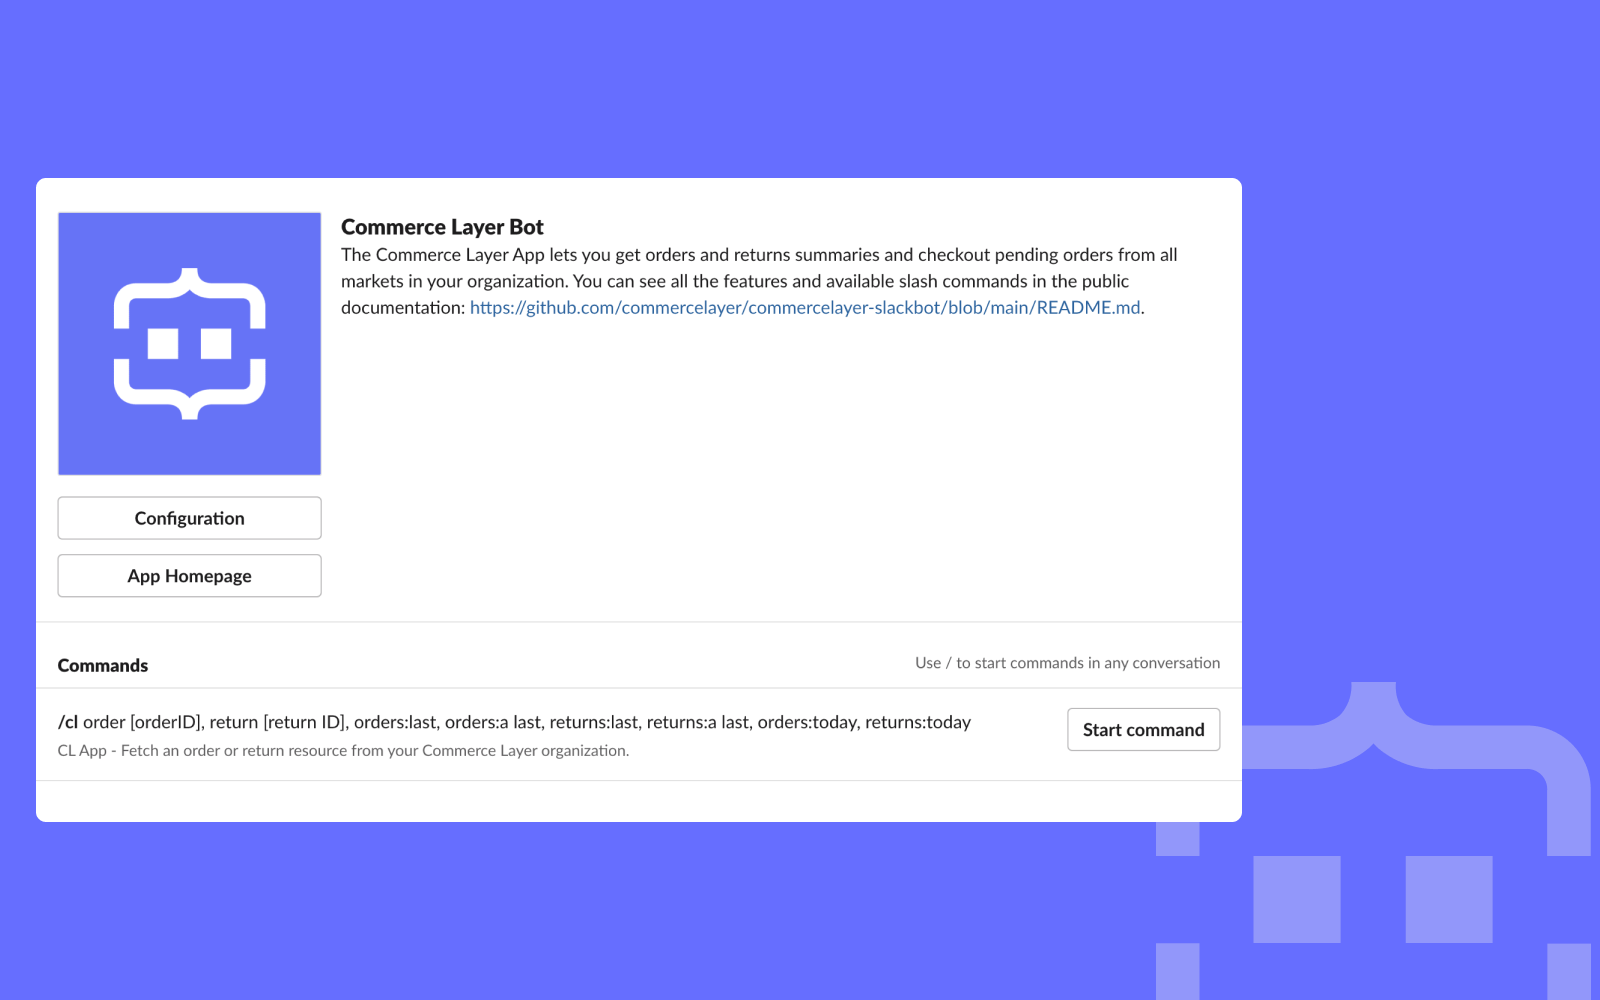
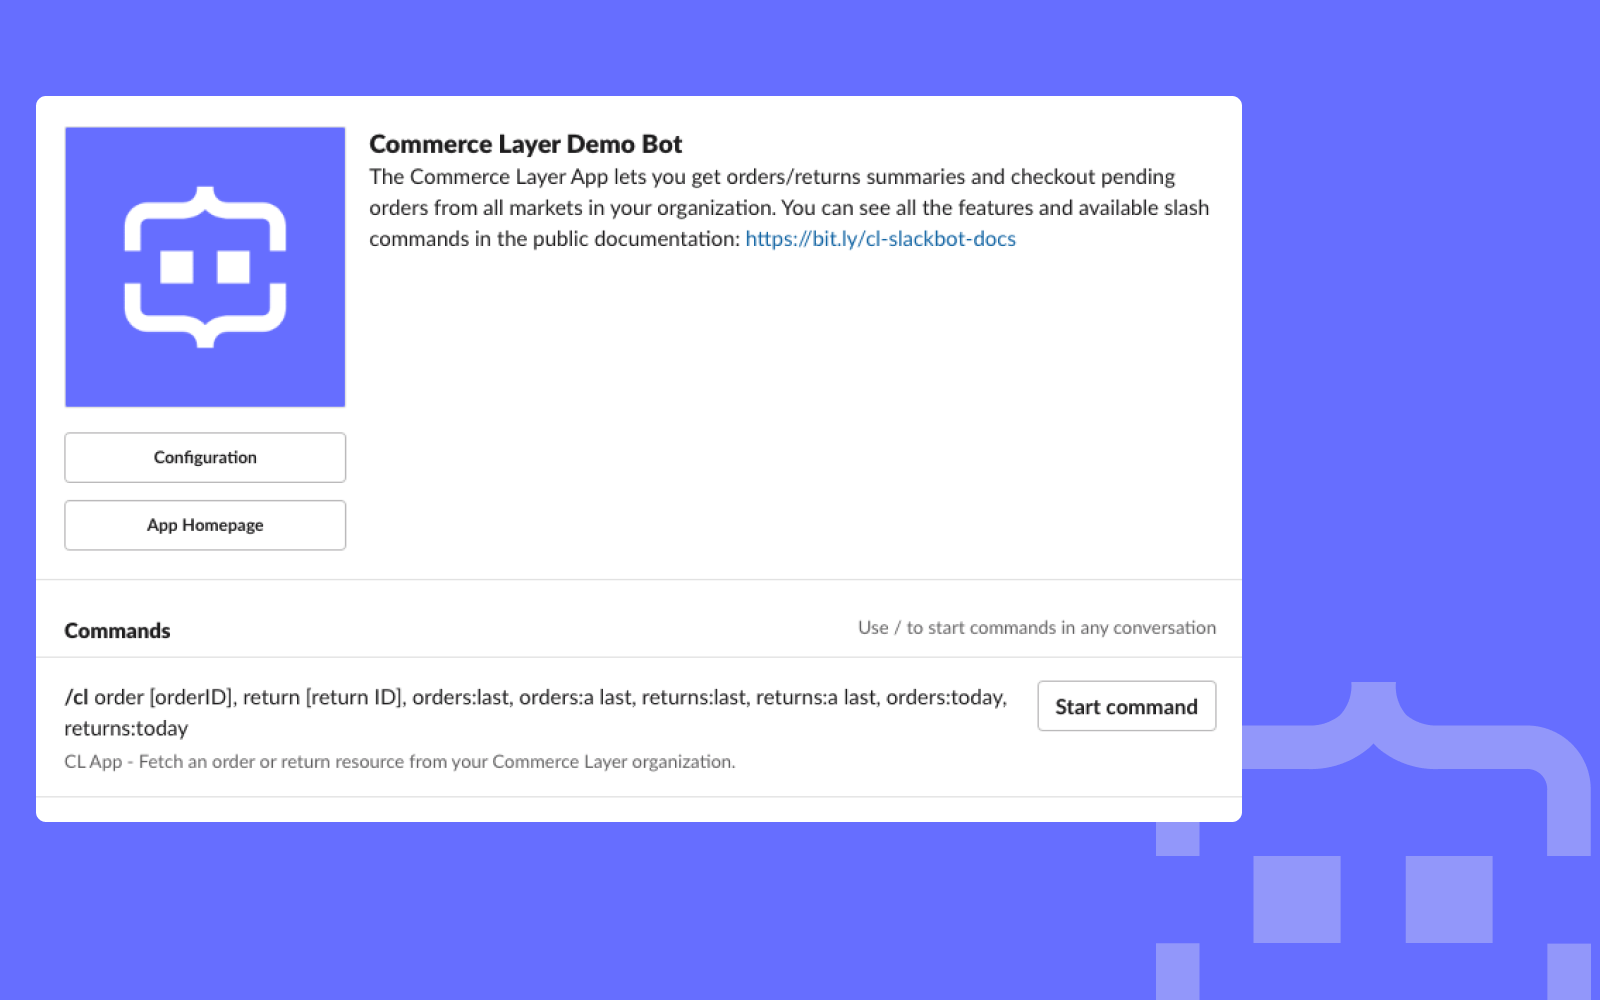
chore: 🤖 update slackbot docs

Changed region(s): [[0.0, 0.093, 0.7812, 0.589], [0.0312, 0.62, 0.7812, 0.775]]

diff --git a/solutions/commercelayer-slackbot/app.ts b/solutions/commercelayer-slackbot/app.ts
@@ -9,7 +9,7 @@ import { getReturnById, getLastReturn, getTodaysReturn } from "./src/returns/get
 import { serveHtml } from "./src/utils/serveHtml";
 import { getTokenInfo } from "./src/utils/getToken";
 import { renderError, notFoundError, expiredTokenError } from "./src/utils/customError";
-import { toTitleCase, getSlug } from "./src/utils/parseText";
+import { getSlug } from "./src/utils/parseText";
 import { formatTimestamp } from "./src/utils/parseDate";
 import { initConfig } from "./src/utils/config";
 
@@ -104,12 +104,13 @@ const app = new App({
           res.writeHead(400, { "Content-Type": "text/html; charset=utf-8" });
           const pageBody = `
           <div>
+            <img alt="Commerce Layer Logo" height="50" width="50" src="https://data.commercelayer.app/assets/logos/glyph/black/commercelayer_glyph_black.svg" />
+            <br /><br />
             <h2>Oops, Something Went Wrong!</h2>
             <p>Commerce Layer Bot 🤖 is already installed in this Slack workspace.</p>
             <p>You can go ahead and start using the existing installation.</p>
             <br />
             <hr />
-            <br />
             <p>Please try again or contact the app owner (reason: ${error.code}).</p>
           </div>
           `;
@@ -135,7 +136,7 @@ const app = new App({
           <hr />
           <br />
           <p>Kindly click the button below to install the app and read 
-            <a href="https://github.com/commercelayer/commercelayer-slackbot/blob/main/README.md" target="_blank" rel="noopener noreferrer">
+            <a href="https://bit.ly/cl-slackbot-docs" target="_blank" rel="noopener noreferrer">
               the documentation</a>.
           </p>
           <a href="/slack/install" target="_blank" rel="noopener noreferrer">

diff --git a/solutions/commercelayer-slackbot/README.md b/solutions/commercelayer-slackbot/README.md
@@ -1,23 +1,8 @@
 # Commerce Layer Slackbot
 
-A Slackbot for fetching Commerce Layer orders and returns summaries.
+This example shows a code implementation of a Slackbot that responds with orders/returns summaries upon request and allows users to checkout pending orders directly from a Slack channel. This application was built with Commerce Layer, Slack Boltjs library, and Supabase. To get started, kindly read [this comprehensive tutorial](https://commercelayer.io/blog/how-we-built-the-commerce-layer-slackbot-with-node-js-and-slack-api) and [this one](#) on our blog.
 
 ![A preview of the Commerce Layer Slackbot about page.](./static/app-details.png)
-
-## What is Commerce Layer?
-
-[Commerce Layer](https://commercelayer.io) is a multi-market commerce API and order management system that lets you add global shopping capabilities to any website, mobile app, chatbot, wearable, voice, or IoT device, with ease. Compose your stack with the best-of-breed tools you already mastered and love. Make any experience shoppable, anywhere, through a blazing-fast, enterprise-grade, and secure API.
-
-## Table of Contents
-
-- [Bot Features](#bot-features)
-- [Getting Started](#getting-started)
-- [Configuration Guide](#configuration-guide)
-- [Commands Available](#commands-available)
-- [Installation Guide](#installation-guide)
-- [Contributors Guide](#contributors-guide)
-- [Need Help?](#need-help)
-- [License](#license)
 
 ---
 
@@ -30,8 +15,8 @@ A Slackbot for fetching Commerce Layer orders and returns summaries.
 - [ ] Automatic alerts for the total revenue of orders at the end of the day/week/month.
 - [ ] Automatic alerts for the total number of returns at the end of the day/week/month.
 
-|                                           |                                |
-| ----------------------------------------- | ------------------------------ |
+|                      |                          |
+| -------------------- | ------------------------ |
 | ![A preview of the Commerce Layer Slackbot.](./static/fetch-order-w.png)   | ![A preview of the Commerce Layer Slackbot.](./static/fetch-return-b.png)    |
 
 ## Getting Started
@@ -48,9 +33,9 @@ The quickest way to get up and running is to use the "Add to Slack" button below
 
 Before you start using the Commerce Layer Slackbot, you need to provide some Commerce Layer [application credentials](https://docs.commercelayer.io/core/applications). Kindly follow the steps below to configure the app:
 
-1. Find the app (Commerce Layer Bot) in the "Apps" section of your Slack workspace (most often at the bottom section).
+1. Find the app (Commerce Layer Demo Bot) in the "Apps" section of your Slack workspace (most often at the bottom section).
 
-2. You will see the home tab with some welcome information and a "Connect organization" button.
+2. You will see the home tab with some welcome information and a "Configure App Credentials" button.
 
 3. Click on that button and provide all the required credentials as seen in the image below.
 
@@ -58,7 +43,7 @@ Before you start using the Commerce Layer Slackbot, you need to provide some Com
 
 ## Commands Available
 
-The Commerce Layer Slackbot allows you to request certain resources by ID and other conditions (more to come). The returned response would be a summary of the requested resource with a link to view the resource(s) and checkout `pending` orders (for the `order` resource). The section below explains the available command and what they do.
+The Commerce Layer Demo Slackbot allows you to request certain resources by ID and other conditions. The returned response would be a summary of the requested resource with a link to view the resource(s) and checkout `pending` orders (for the `order` resource). The section below explains the available command and what they do.
 
 ### Fetch an order resource
 
@@ -166,33 +151,3 @@ npm run dev
 <br />
 
 Now you can proceed to do your thing!
-
-## Contributors Guide
-
-1. Fork [this repository](https://github.com/commercelayer/commercelayer-slackbot) (learn how to do this [here](https://help.github.com/articles/fork-a-repo)).
-
-2. Clone the forked repository like so:
-
-```bash
-git clone https://github.com/<your username>/commercelayer-slackbot.git && cd commercelayer-slackbot
-```
-
-3. Make your changes and create a pull request ([learn how to do this](https://docs.github.com/en/github/collaborating-with-issues-and-pull-requests/creating-a-pull-request)).
-
-4. Someone will attend to your pull request and provide some feedback.
-
-## Need Help?
-
-1. Join [Commerce Layer's Slack community](https://slack.commercelayer.app).
-
-2. Create an [issue](https://github.com/commercelayer/sanity-template-commercelayer/issues) in this repository.
-
-3. Ping us [on Twitter](https://twitter.com/commercelayer).
-
-## License
-
-This repository is published under the [MIT](LICENSE) license.
-
----
-
-Want to learn more about how we built this project and how you can build yours? Then you should read [this article first](https://commercelayer.io/blog/how-we-built-the-commerce-layer-slackbot-with-node-js-and-slack-api) and [this next](#) on our blog.
